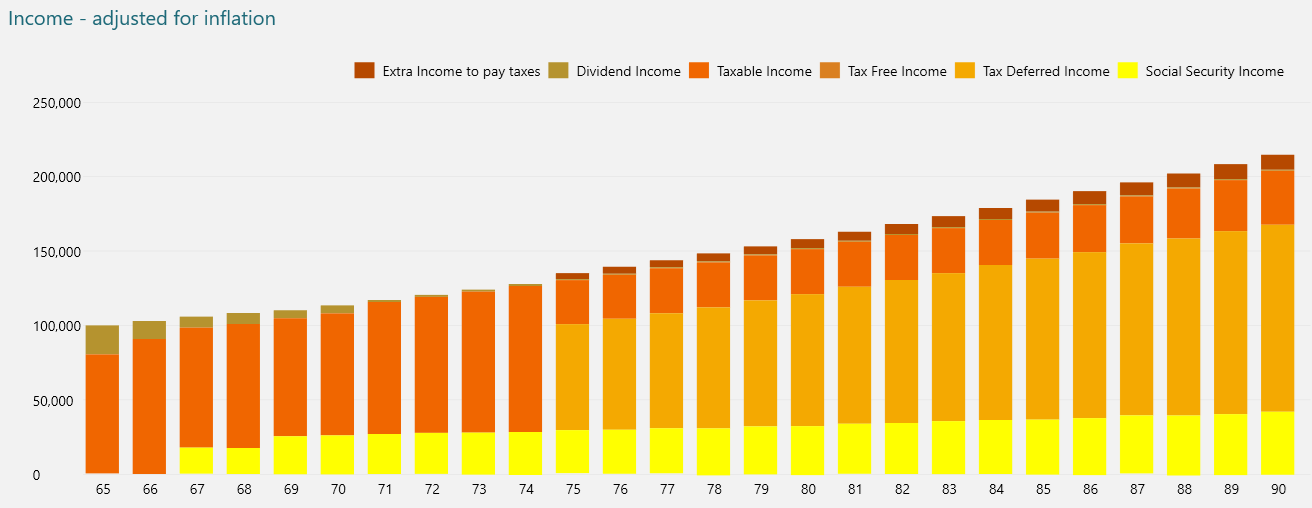
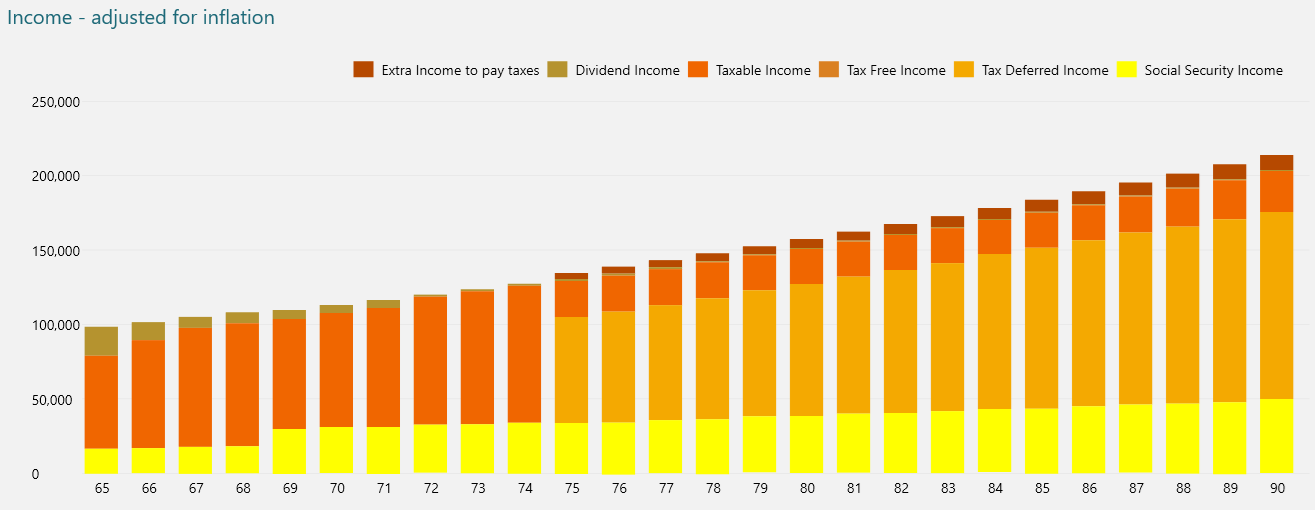
update docs

diff --git a/docs/Reports/RetirementPlanReport.md b/docs/Reports/RetirementPlanReport.md
@@ -1,9 +1,10 @@
 # Retirement Plan Report
 
 If you have a brokerage account containing taxable assets, perhaps also some tax deferred accounts like 401k or
-traditional IRA, and some tax free accounts like a Roth IRA, this report can plot out what your retirement income would
-look like, how your retirement funds could be used, and lets you explore whether you should do a Roth conversion on any
-tax deferred accounts.
+traditional IRA, and some tax free accounts like a Roth IRA, this report can plot out what your retirement income might
+look like, how your retirement funds could be used, and gives you a way to explore some other scenarios, like what
+effect it has if you change your retirement income, do a Roth conversion on any tax deferred accounts, move to a
+different state, or change your social security income age.
 
 To setup the report you need to enter some values in the RETIREMENT details as follows:
 
@@ -20,12 +21,11 @@ reasonable inflation rates.
 
 The first part of the report shows a summary of assets remaining at the end date (in this case age 90):
 
-- Assets remaining at age 90	$7,158,438
-    - Taxable assets	$509,229
+- Assets remaining at age 90	$7,526,603
+    - Taxable assets	$877,394
     - Tax deferred assets	$1,409,389
     - Tax free assets	$5,239,820
-- Total taxes paid during retirement	$192,536
-
+- Total taxes paid during retirement	$211,048
 
 And then it shows some charts, the first one is a chart showing how each class of asset grows and/or is drawn down over
 the years as follows:
@@ -76,8 +76,9 @@ But before settling on a Roth strategy you should also experiment with different
 notice that if the market returns are very low or negative, then Roth conversion usually does not make sense, while high
 market ROI usually means a Roth conversion is a good idea.
 
-Note that all of this is just an `estimate` based on the inflation rate and rate of return predictions you provided and it
-does not compute your real cost basis for capital gains taxes, it uses an estimated capital gains based on your current
-holdings.  This simulation also assumes today's (2026) tax brackets, and does not modify the tax rates over the years which we know
-never happens. Chances are tax rates will always go up, so this should be another consideration when it comes to minimizing
-future taxes which the Roth conversation also helps with.
+Note that all of this is just an `estimate` based on the inflation rate and rate of return predictions you provided and
+it it uses an estimated capital gains based on your current holdings, which assumes you hold the same stuff, which is
+unlikely for this extended period. This simulation also assumes today's (2026) tax brackets, and does not modify the tax
+rates over the years which we know never happens. It does apply inflation adjustments to the tax brackets, but chances
+are tax rates will also always go up.  All this to say this is only a simulation, but it shows you the equation is
+very complicated. You should consult a retirement planning specialist before making any big decisions.
